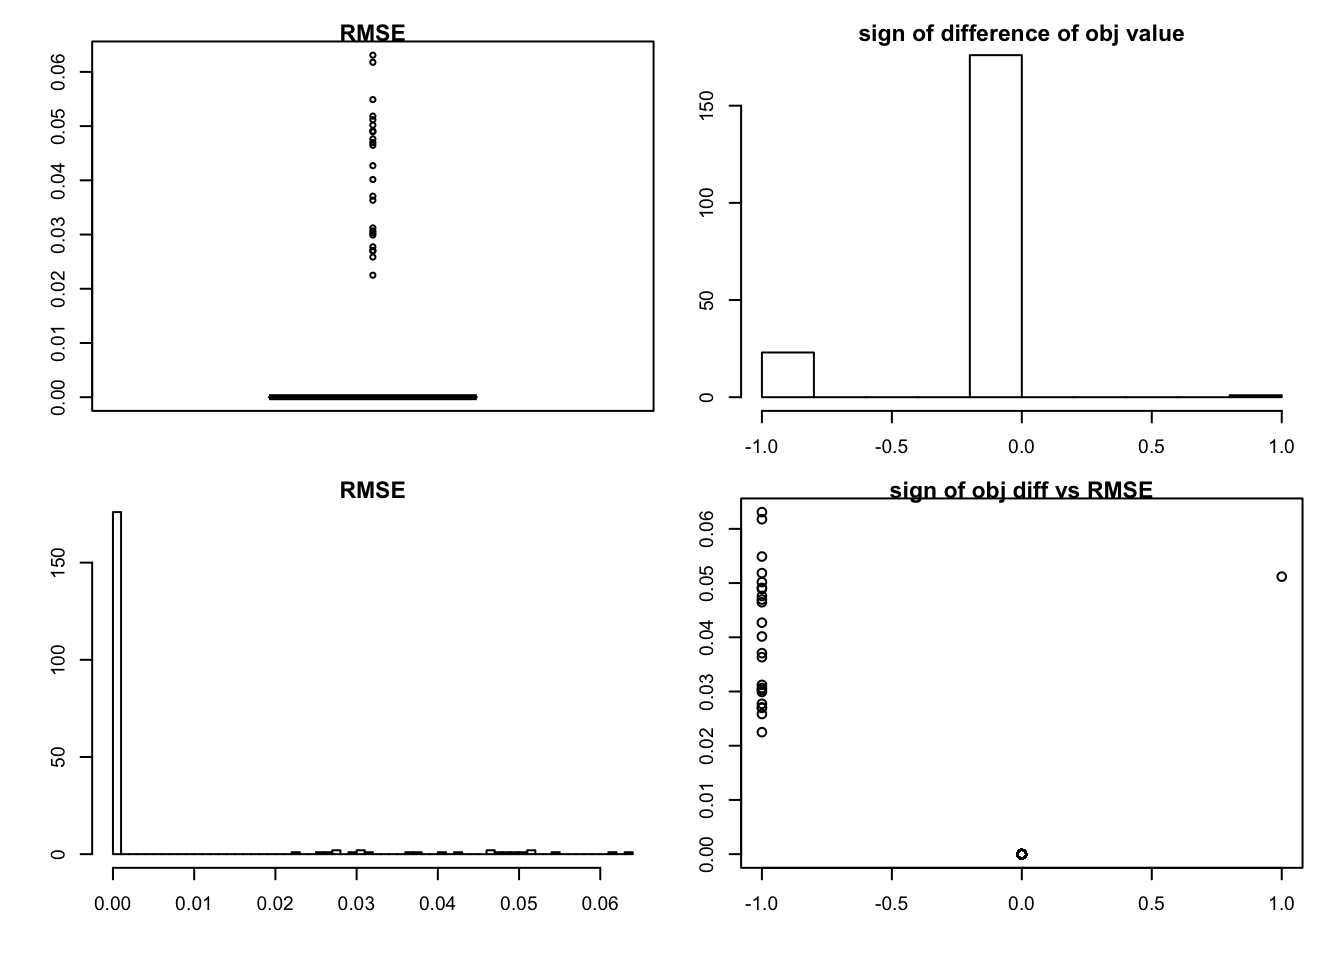
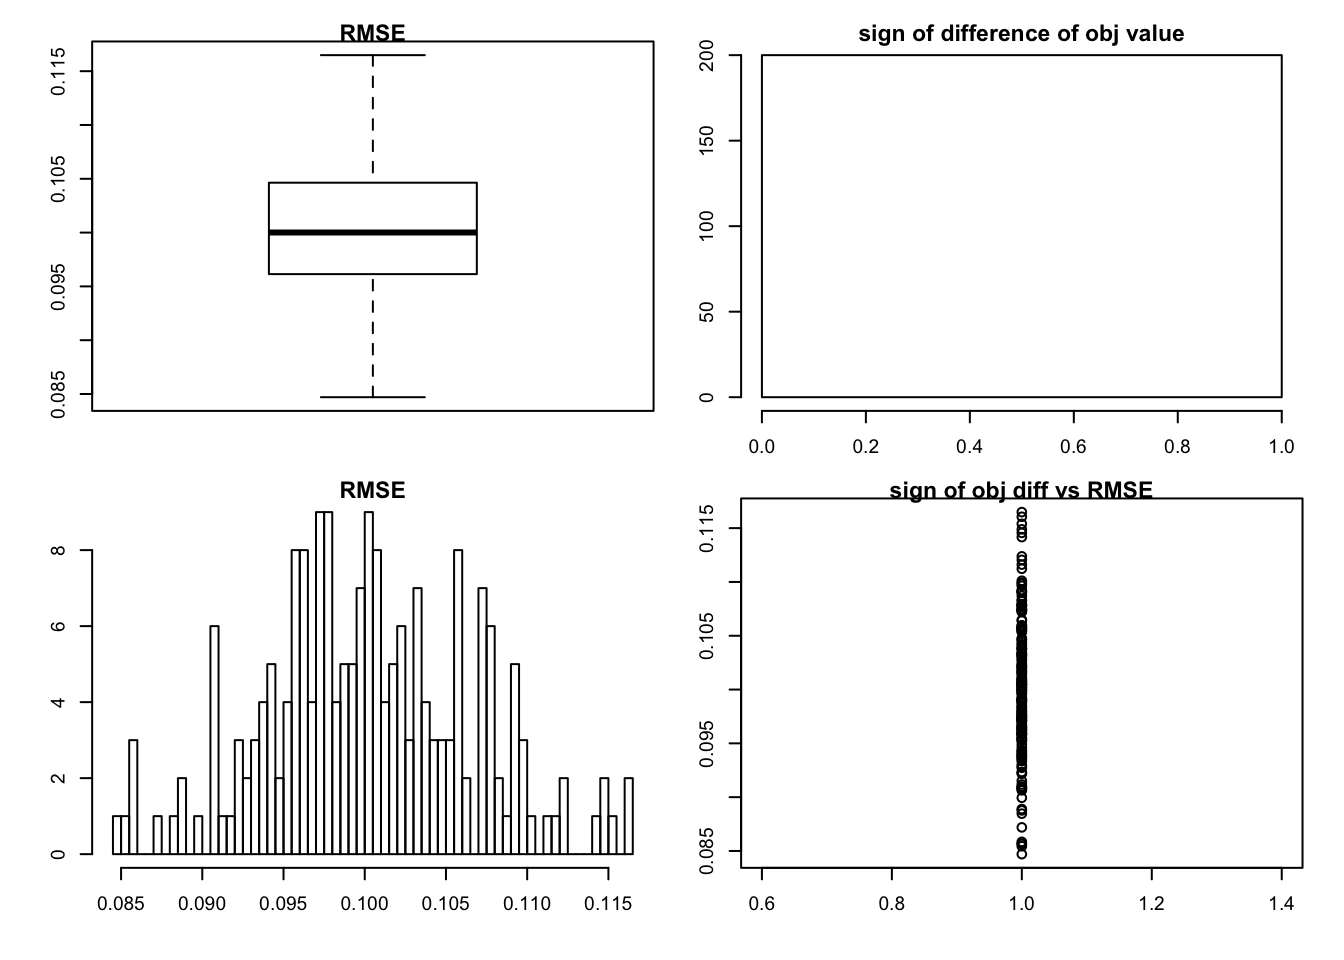
Build site.

diff --git a/docs/Objcheck_1.html b/docs/Objcheck_1.html
@@ -315,7 +315,7 @@ shared across the workflowr files. -->
 <p><strong>Last updated:</strong> 2017-06-19</p>
 <!-- Insert the code version (Git commit SHA1) if Git repository exists and R
  package git2r is installed -->
-<p><strong>Code version:</strong> 8ac43e2</p>
+<p><strong>Code version:</strong> 5731020</p>
 <!-- Add your analysis here -->
 <div id="rank-1-vs-rank-0" class="section level2">
 <h2>rank 1 vs rank 0</h2>
@@ -384,7 +384,7 @@ sim_rank0 = function(K=1,N = 100, P=200, SF = 0.5, SL = 0.5, signal = 0,noise = 
   RMSE = rep(NA,T)
   sign_obj = rep(NA,T)
   for(t in 1:T){
-    g0 = rank0check(K = 1,N, P, SF, SL , signal=0,noise,mtype = mtype)
+    g0 = rank0check(K = 1,N, P, SF, SL , signal,noise,mtype = mtype)
     RMSE[t] = g0$rmse
     sign_obj[t] = sign(g0$obj_val - g0$obj_0)
   }
@@ -392,7 +392,7 @@ sim_rank0 = function(K=1,N = 100, P=200, SF = 0.5, SL = 0.5, signal = 0,noise = 
   par(cex = 0.6)
   par(mar = c(3, 3, 0.8, 0.8), oma = c(1, 1, 1, 1))
   boxplot(RMSE,main = &quot;RMSE&quot;)
-  hist(sign_obj, main = &quot;sign of difference of obj value&quot;)
+  hist(sign_obj, breaks = 3,main = &quot;sign of difference of obj value&quot;)
   hist(RMSE,breaks = 50,main = &quot;RMSE&quot;)
   plot(sign_obj,RMSE, main = &quot;sign of obj diff vs RMSE&quot;)
 }</code></pre>
